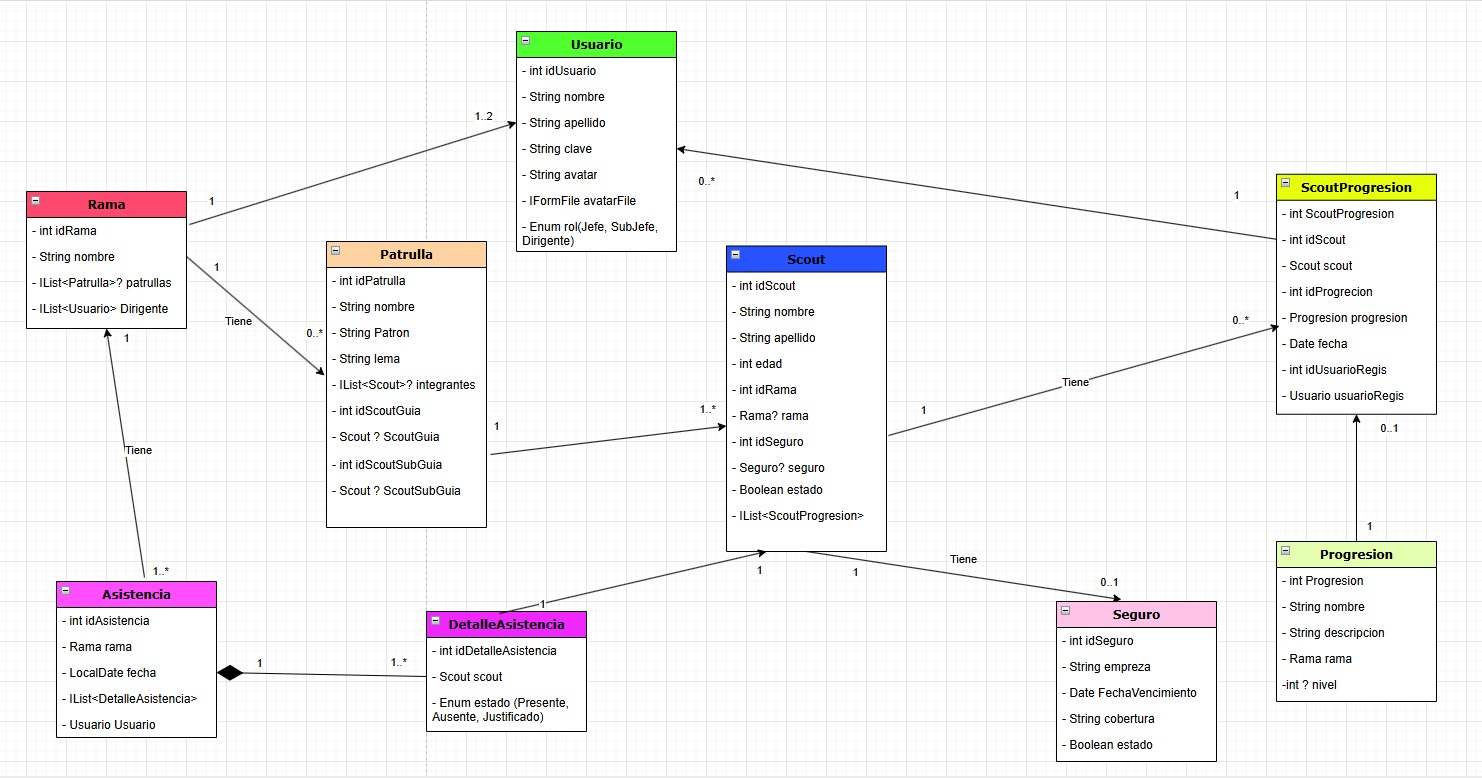
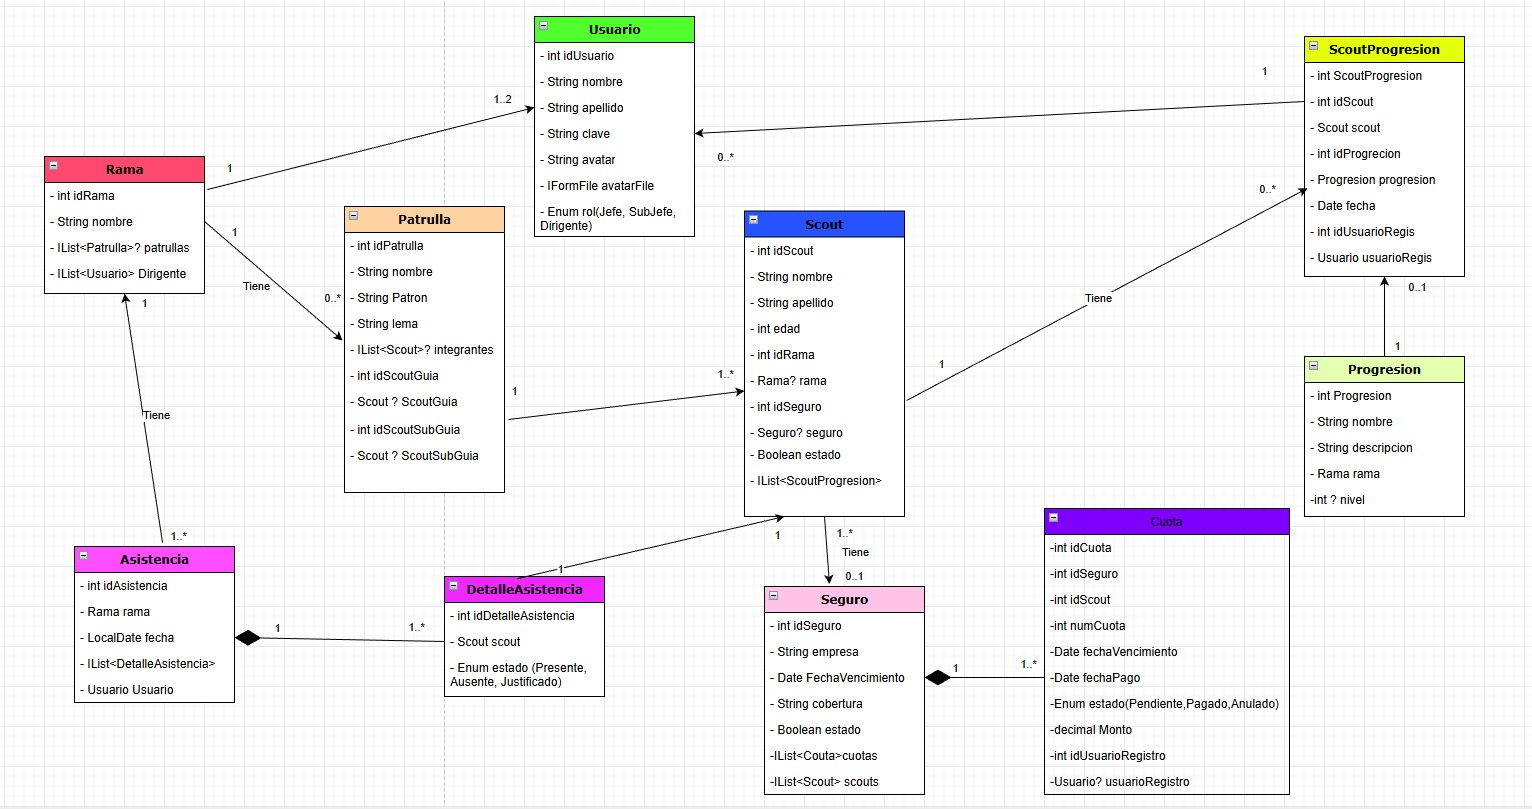
Cuotas de seguro

diff --git a/README.md b/README.md
@@ -46,4 +46,4 @@ El sistema esta diseñado para ser utilizado por el jefe de grupo o por algun di
 Las siguentes caracteristicas se planean implementar en el sistema(Aun no estan implementadas en el diagrama de clases):
 1. Sistema de Campamentos y ubicacion geografica de los mismos: Se planea implementar el registro de campamentos, con su ubicacion, detalles del lugar y archivos relacionados(Fotos del campamento realizado)
 
-2. Gestión de Cuotas de Seguros: ampliar el modulo de seguro para que sea tratado como un seguro tiene cierta candidad de pagos asociados y asi poder ver que scouts estan al dia y quienes adeudan cuotas
+2. Gestión de Cuotas de Seguros: ampliar el modulo de seguro para que sea tratado como un seguro tiene cierta candidad de pagos asociados y asi poder ver que scouts estan al dia y quienes adeudan cuotas(Ya fue implementado en el diagrama de clases)
